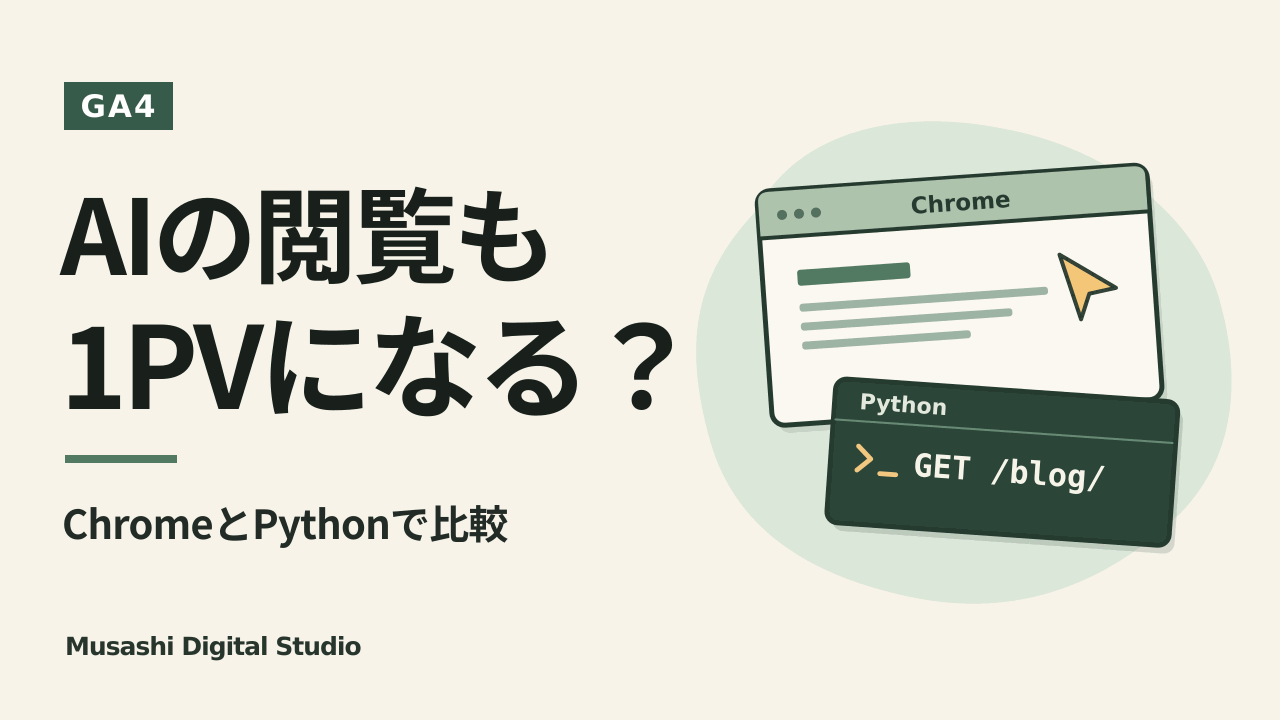
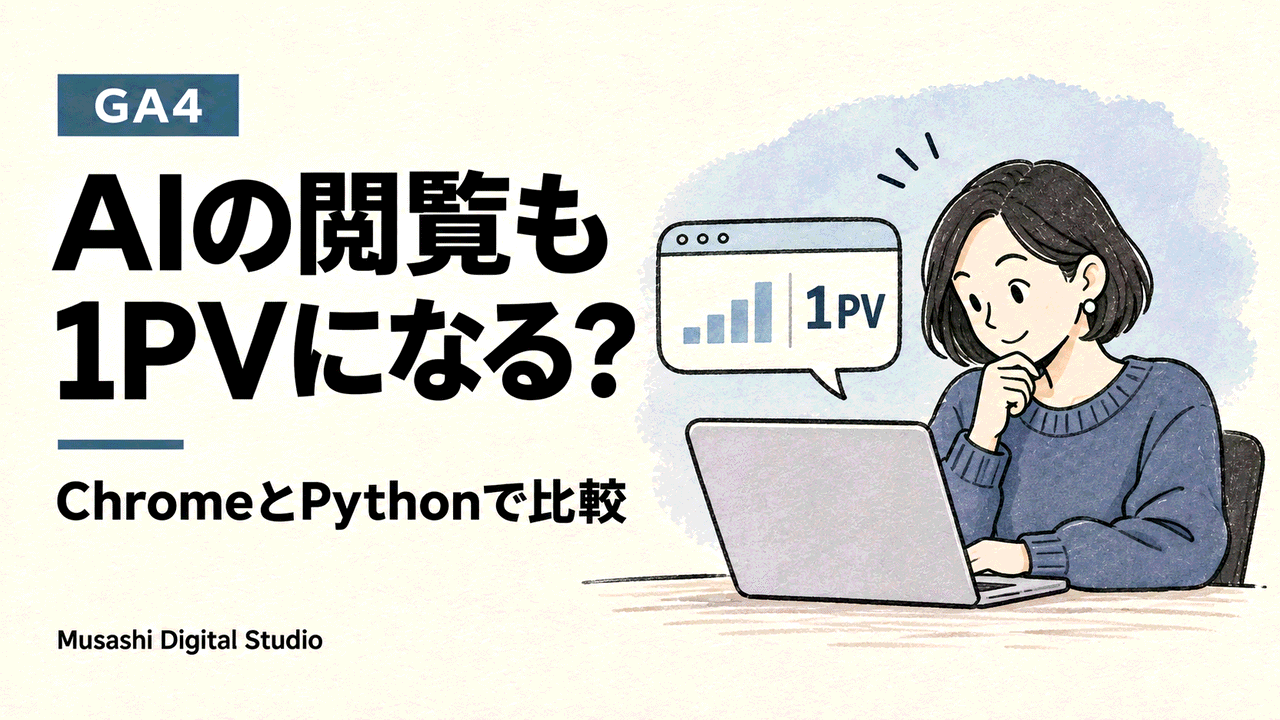
GA4調査記事のアイキャッチを女性のイラストに変更

diff --git a/_posts/2026/11/2026-11-23-ga4-ai-pageview.md b/_posts/2026/11/2026-11-23-ga4-ai-pageview.md
@@ -8,7 +8,7 @@ tags:
   - ga4
   - AI
 thumbnail: /assets/images/blog/2026-11-23-ga4-ai-pageview/thumbnail.png
-thumbnail_alt: "「AIの閲覧も1PVになる？」という見出しと、ChromeとPythonからページを開く様子を表す図"
+thumbnail_alt: "「AIの閲覧も1PVになる？」の見出しと、ノートPCでGA4の「1PV」を確認する女性のイラスト"
 excerpt: "ChatGPTに「ブログを開いて」と頼んだら、読者が1ページ見たときと同じように数えられるのだろうか。ChromeとPythonで同じページを開いた約3分後、GA4を見てみました。"
 ---
 
